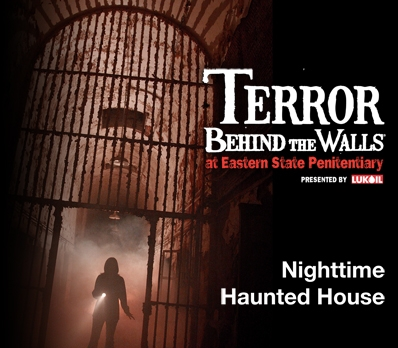
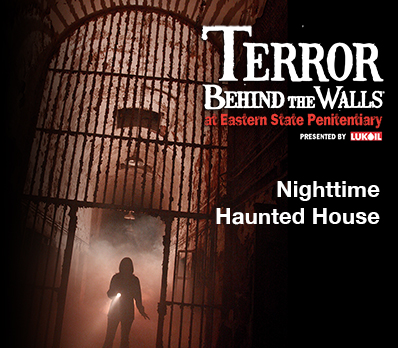
Update promo images, adjust styling

diff --git a/dist/css/main.css b/dist/css/main.css
@@ -2256,7 +2256,7 @@ sup {
       #promo a {
         display: block;
         width: 96%;
-        height: 230px;
+        height: 250px;
         margin-bottom: 10px;
         overflow: hidden; } }
     #promo a span {
@@ -2275,17 +2275,11 @@ sup {
       opacity: 0.85; }
   #promo .promo-esp {
     border-color: white; }
-    @media all and (max-width: 640px) {
-      #promo .promo-esp {
-        height: 180px; } }
     #promo .promo-esp span {
       background: white;
       color: black; }
   #promo .promo-tbtw {
     border-color: #a9110c; }
-    @media all and (max-width: 640px) {
-      #promo .promo-tbtw {
-        height: 300px; } }
     #promo .promo-tbtw span {
       background-color: #a9110c;
       color: white; }

diff --git a/_sass/components/_promo.scss b/_sass/components/_promo.scss
@@ -28,7 +28,7 @@
         @media all and (max-width: 640px) {
             display: block;
             width: 96%;
-            height: 230px;
+            height: 250px;
             margin-bottom: 10px;
             overflow: hidden;
         }
@@ -57,10 +57,6 @@
     .promo-esp {
         border-color: white;
 
-        @media all and (max-width: 640px) {
-            height: 180px;
-        }
-
         span {
             background: white;
             color: black;
@@ -68,10 +64,6 @@
     }
     .promo-tbtw {
         border-color: #a9110c;
-
-        @media all and (max-width: 640px) {
-            height: 300px;
-        }
 
         span {
             background-color: #a9110c;
